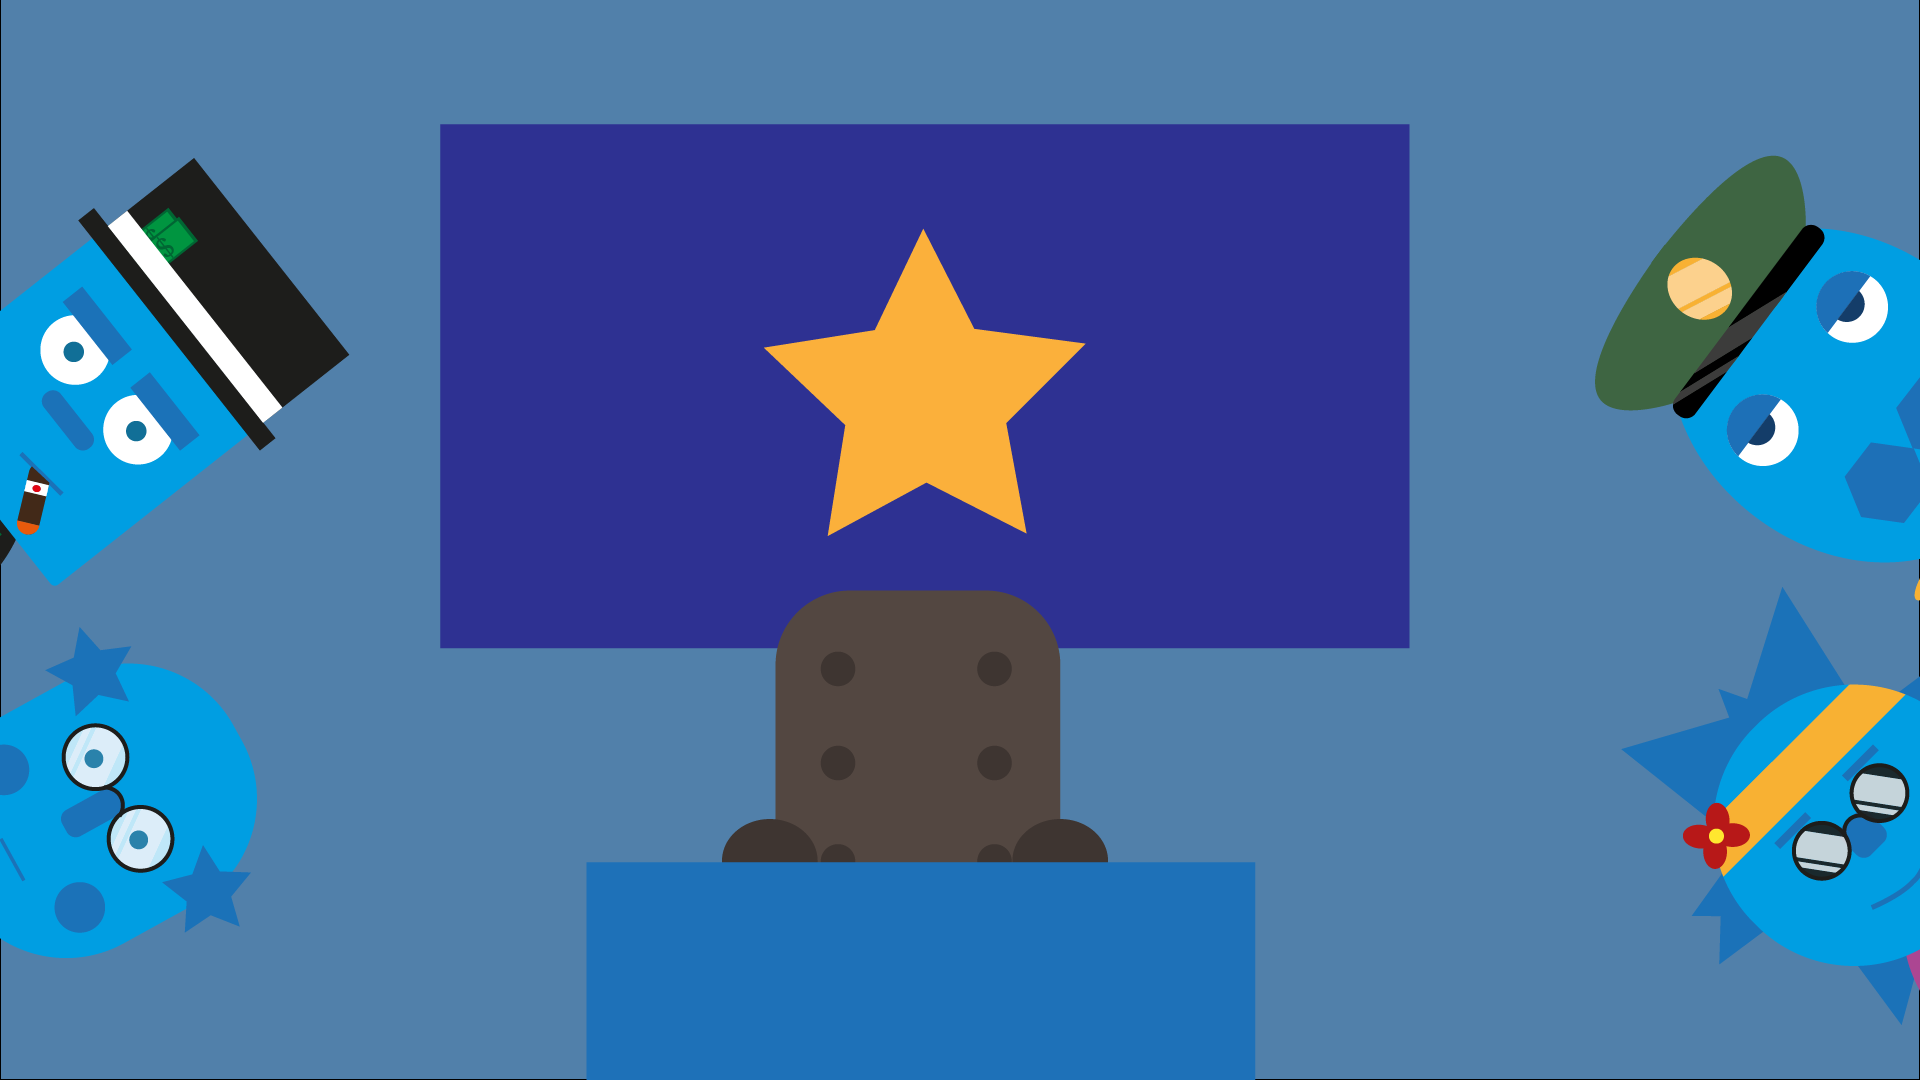
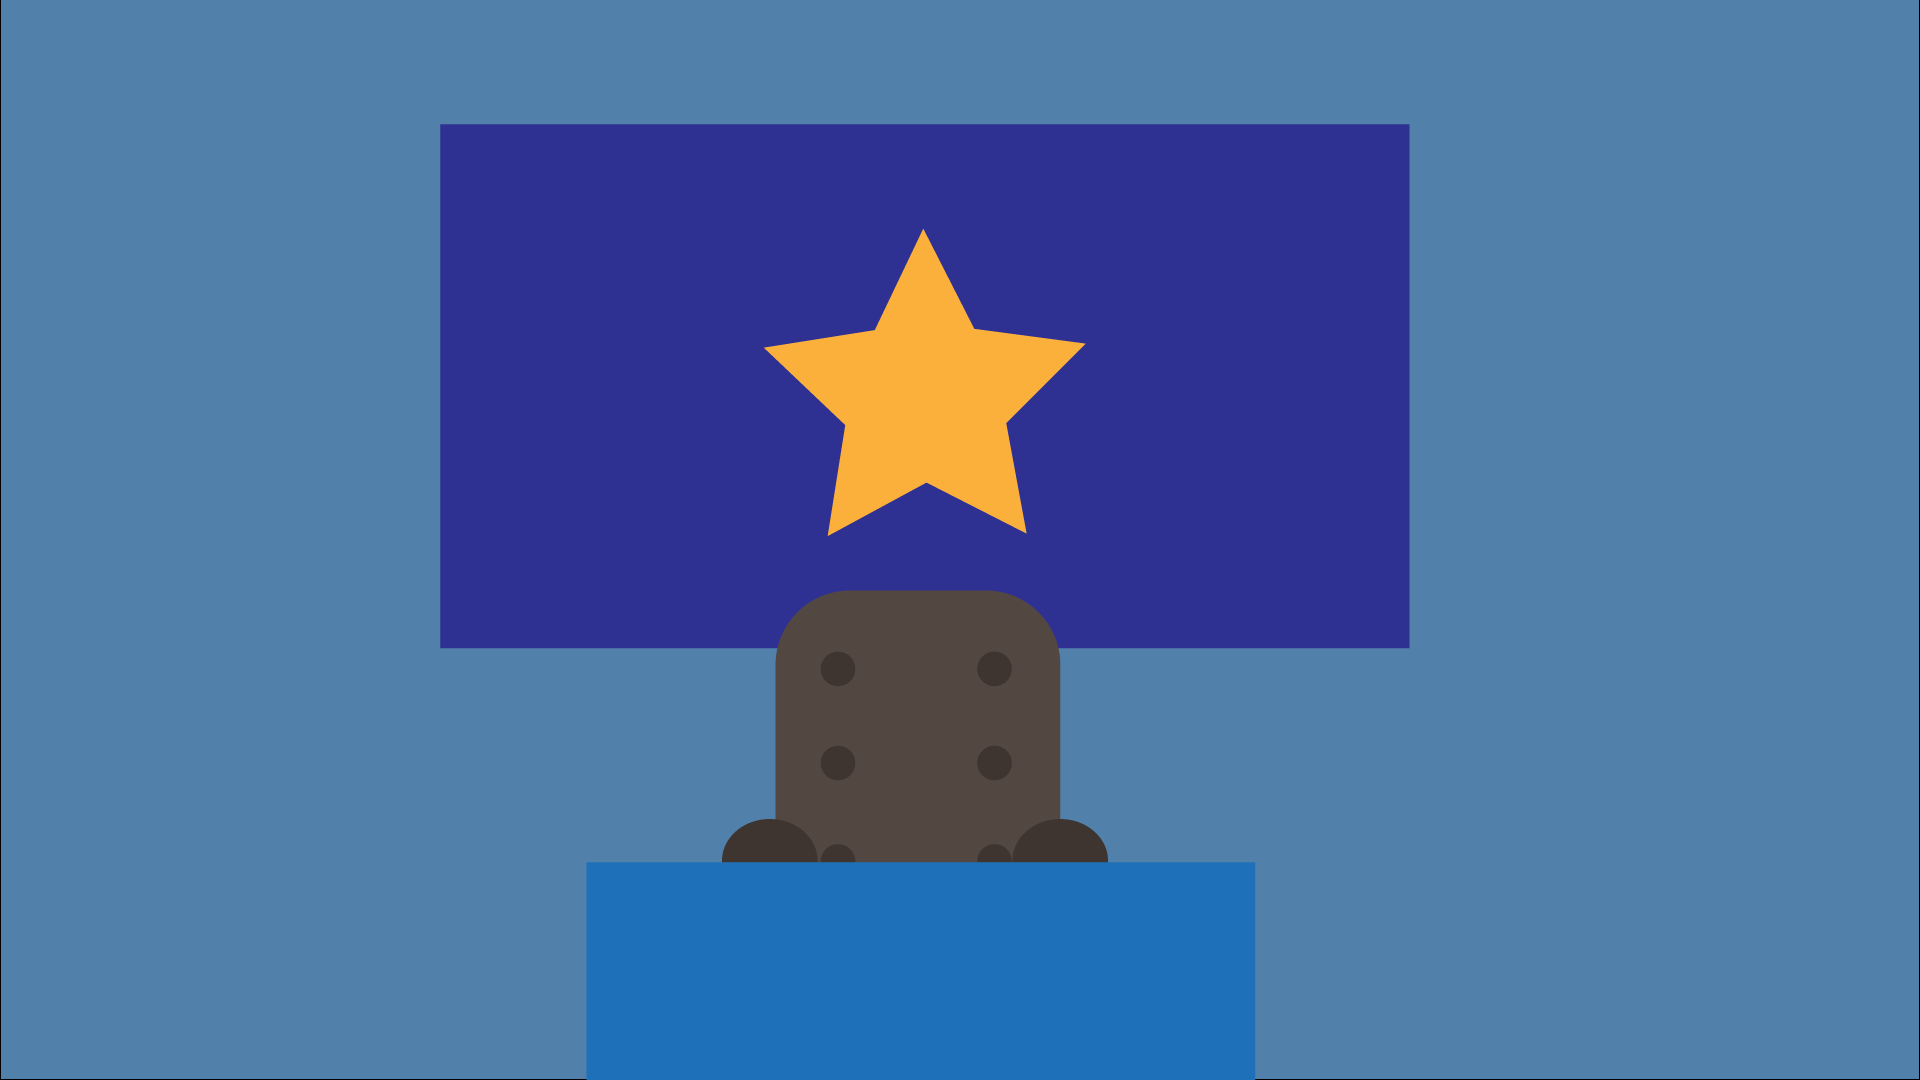
ds

diff --git a/Website/wwwroot/css/site.css b/Website/wwwroot/css/site.css
@@ -5,7 +5,11 @@ html {
   
 }
 
-
+body {
+    background-image: url(../images/home_page.png);
+    background-repeat: no-repeat;
+    background-size: contain;
+}
 
 .form {
     display:flex;
